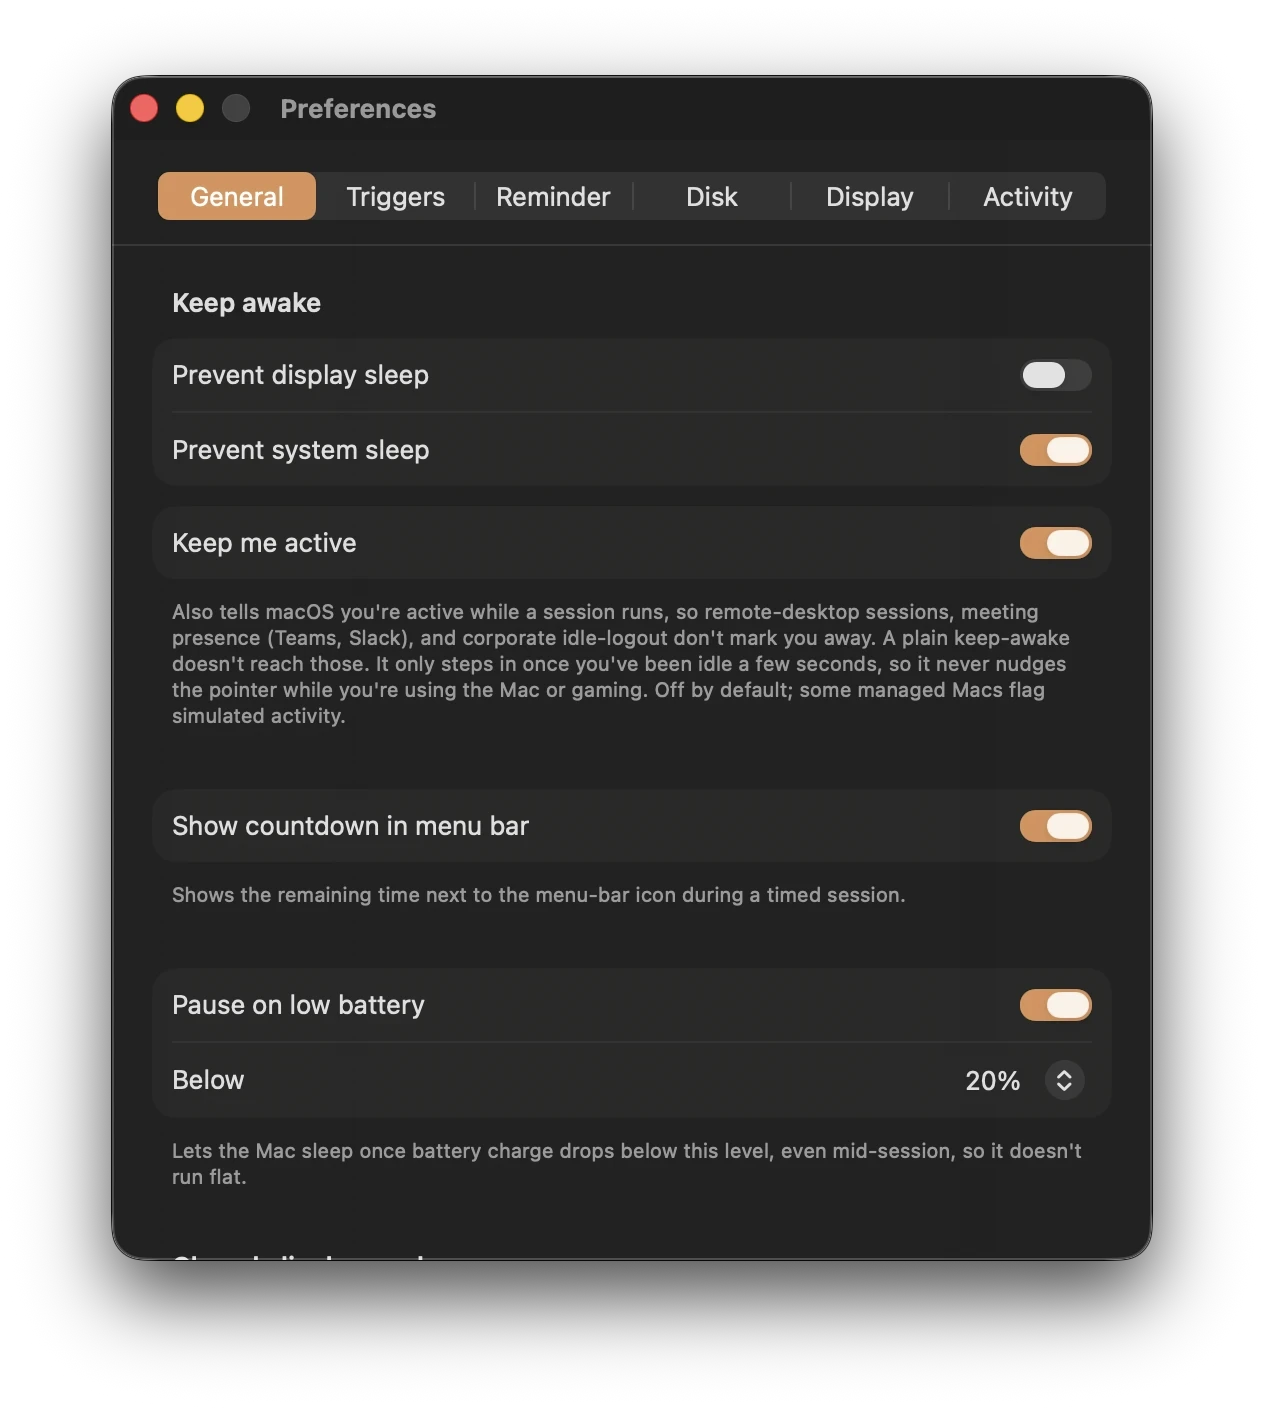
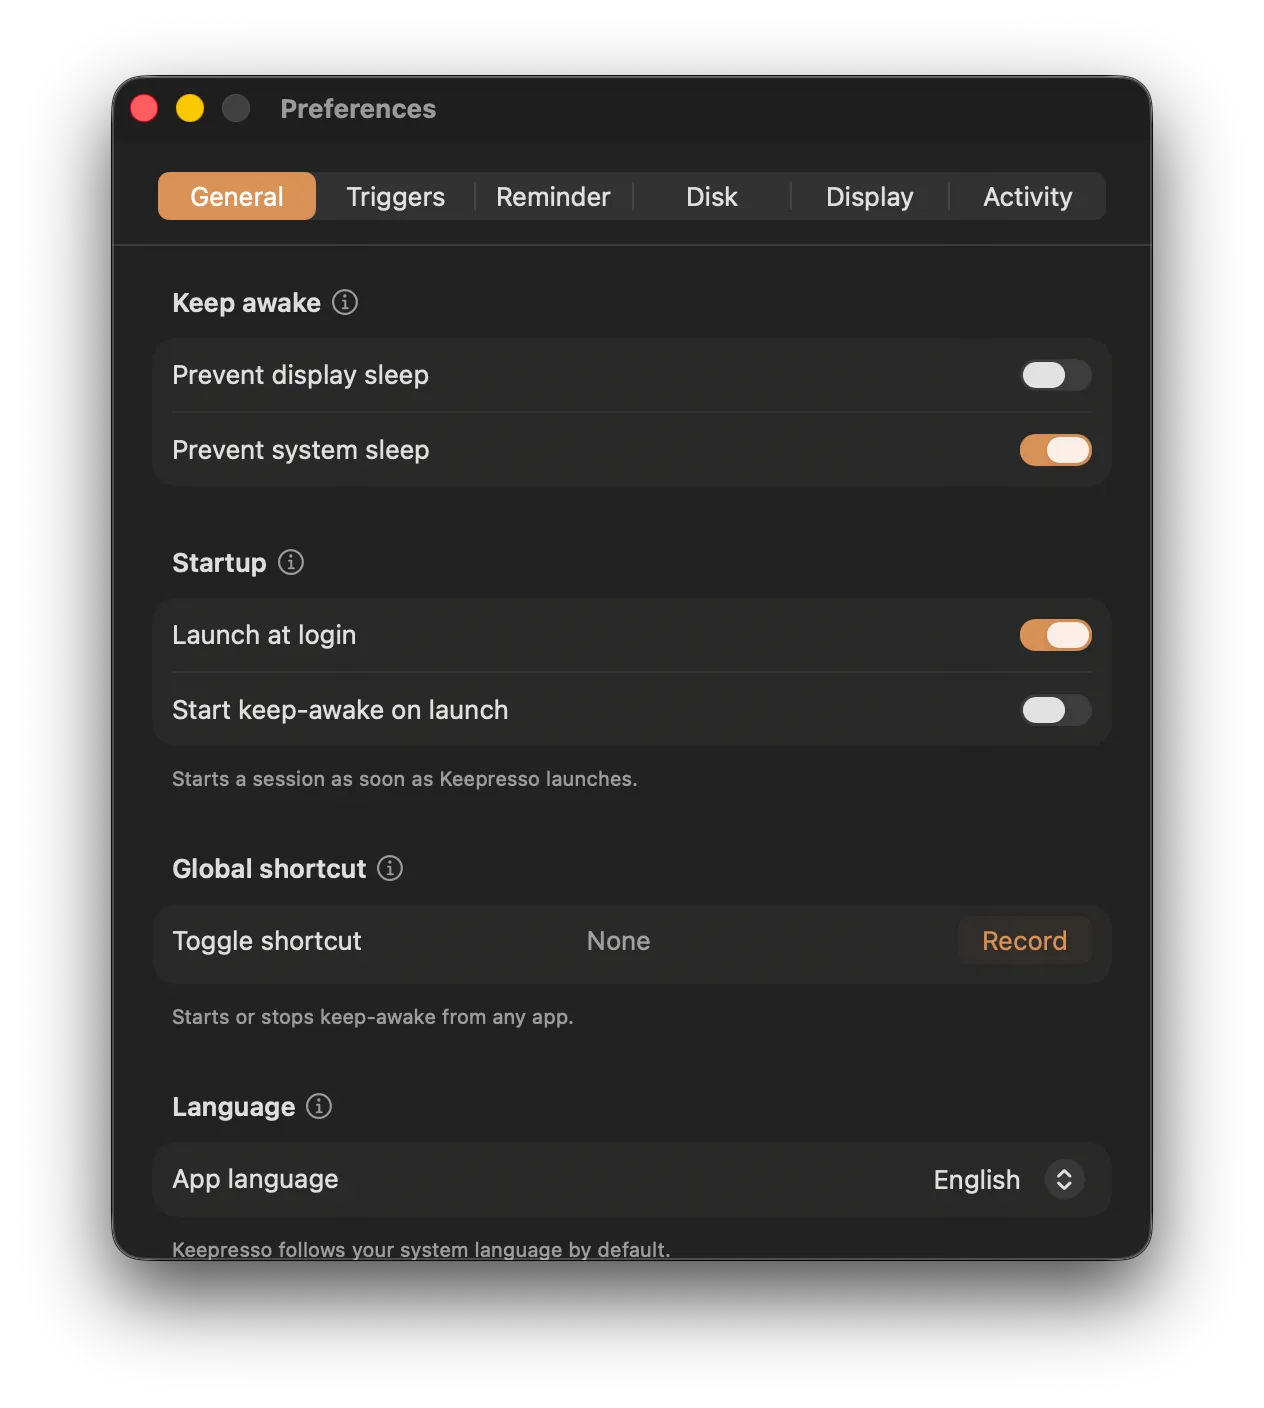
Refresh docs screenshots and captions for 1.14.0

diff --git a/README.md b/README.md
@@ -25,9 +25,9 @@ condition-based **triggers** so your Mac only stays awake when it actually shoul
 It lives quietly in the menu bar, no Dock icon, no clutter.
 
 <p align="center">
-  <img src="docs/assets/menu_idle.webp" width="250" alt="Keepresso menu while idle, with the keep-awake toggle and duration picker">
+  <img src="docs/assets/menu_idle.webp" width="250" alt="Keepresso menu brewing indefinitely, with the keep-awake toggle, duration picker, and Stop-in buttons">
   &nbsp;
-  <img src="docs/assets/menu_countdown.webp" width="250" alt="Keepresso brewing a timed session, with a live countdown in the menu bar">
+  <img src="docs/assets/menu_countdown.webp" width="250" alt="Keepresso brewing a timed session, with a live countdown and one-tap Stop-in buttons">
   &nbsp;
   <img src="docs/assets/menu_trigger.webp" width="250" alt="Keepresso brewing because a trigger condition is met, with the live condition list">
 </p>
@@ -179,11 +179,11 @@ It lives quietly in the menu bar, no Dock icon, no clutter.
 <table>
 <tr>
 <td align="center" width="50%">
-  <img src="docs/assets/prefs_general.webp" width="320" alt="Preferences: General tab with keep-awake toggles and closed-display mode"><br>
-  <sub>General: keep-awake toggles, menu-bar countdown, battery auto-pause, closed-display mode</sub>
+  <img src="docs/assets/prefs_general.webp" width="320" alt="Preferences: General tab with keep-awake toggles, startup, a global shortcut, and the app language"><br>
+  <sub>General: keep-awake toggles, launch at login, a global shortcut, your language</sub>
 </td>
 <td align="center" width="50%">
-  <img src="docs/assets/prefs_triggers.webp" width="320" alt="Preferences: a trigger rule set combining processes and AC power"><br>
+  <img src="docs/assets/prefs_triggers.webp" width="320" alt="Preferences: the Triggers tab with presets and a rule list of AI agent working, AC power, playing a game, and CPU conditions"><br>
   <sub>Trigger engine: combine conditions with any or all, or apply a preset</sub>
 </td>
 </tr>
@@ -199,8 +199,8 @@ It lives quietly in the menu bar, no Dock icon, no clutter.
 </tr>
 <tr>
 <td align="center" colspan="2">
-  <img src="docs/assets/prefs_conditions.webp" width="320" alt="Preferences: the Add condition menu with power, display, network, and app conditions"><br>
-  <sub>Adding a condition: grouped menus for power and display, network and devices, apps and activity</sub>
+  <img src="docs/assets/prefs_conditions.webp" width="320" alt="Preferences: the Triggers tab with an Add row grouping power and display, network and devices, and apps and activity conditions, and Claude Code connected"><br>
+  <sub>Adding a condition: grouped menus for power and display, network and devices, apps and activity, with Claude Code connected</sub>
 </td>
 </tr>
 </table>
